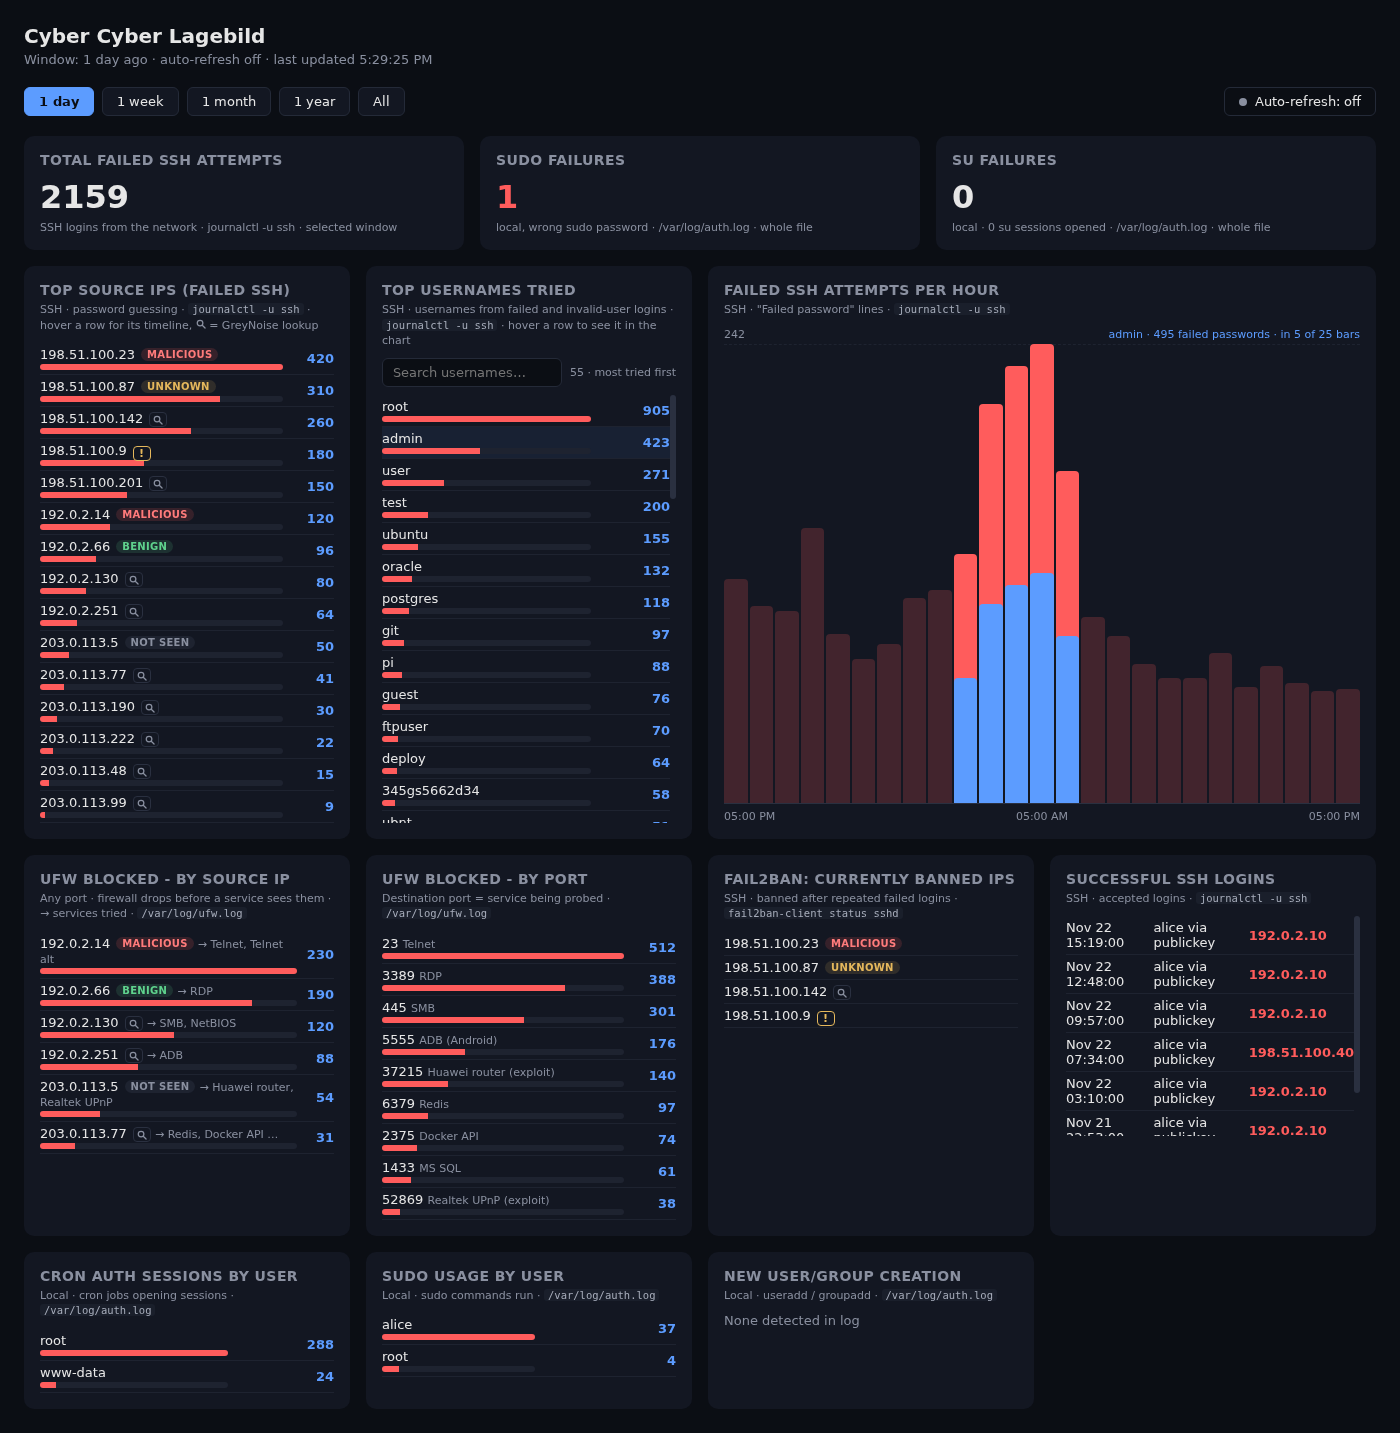
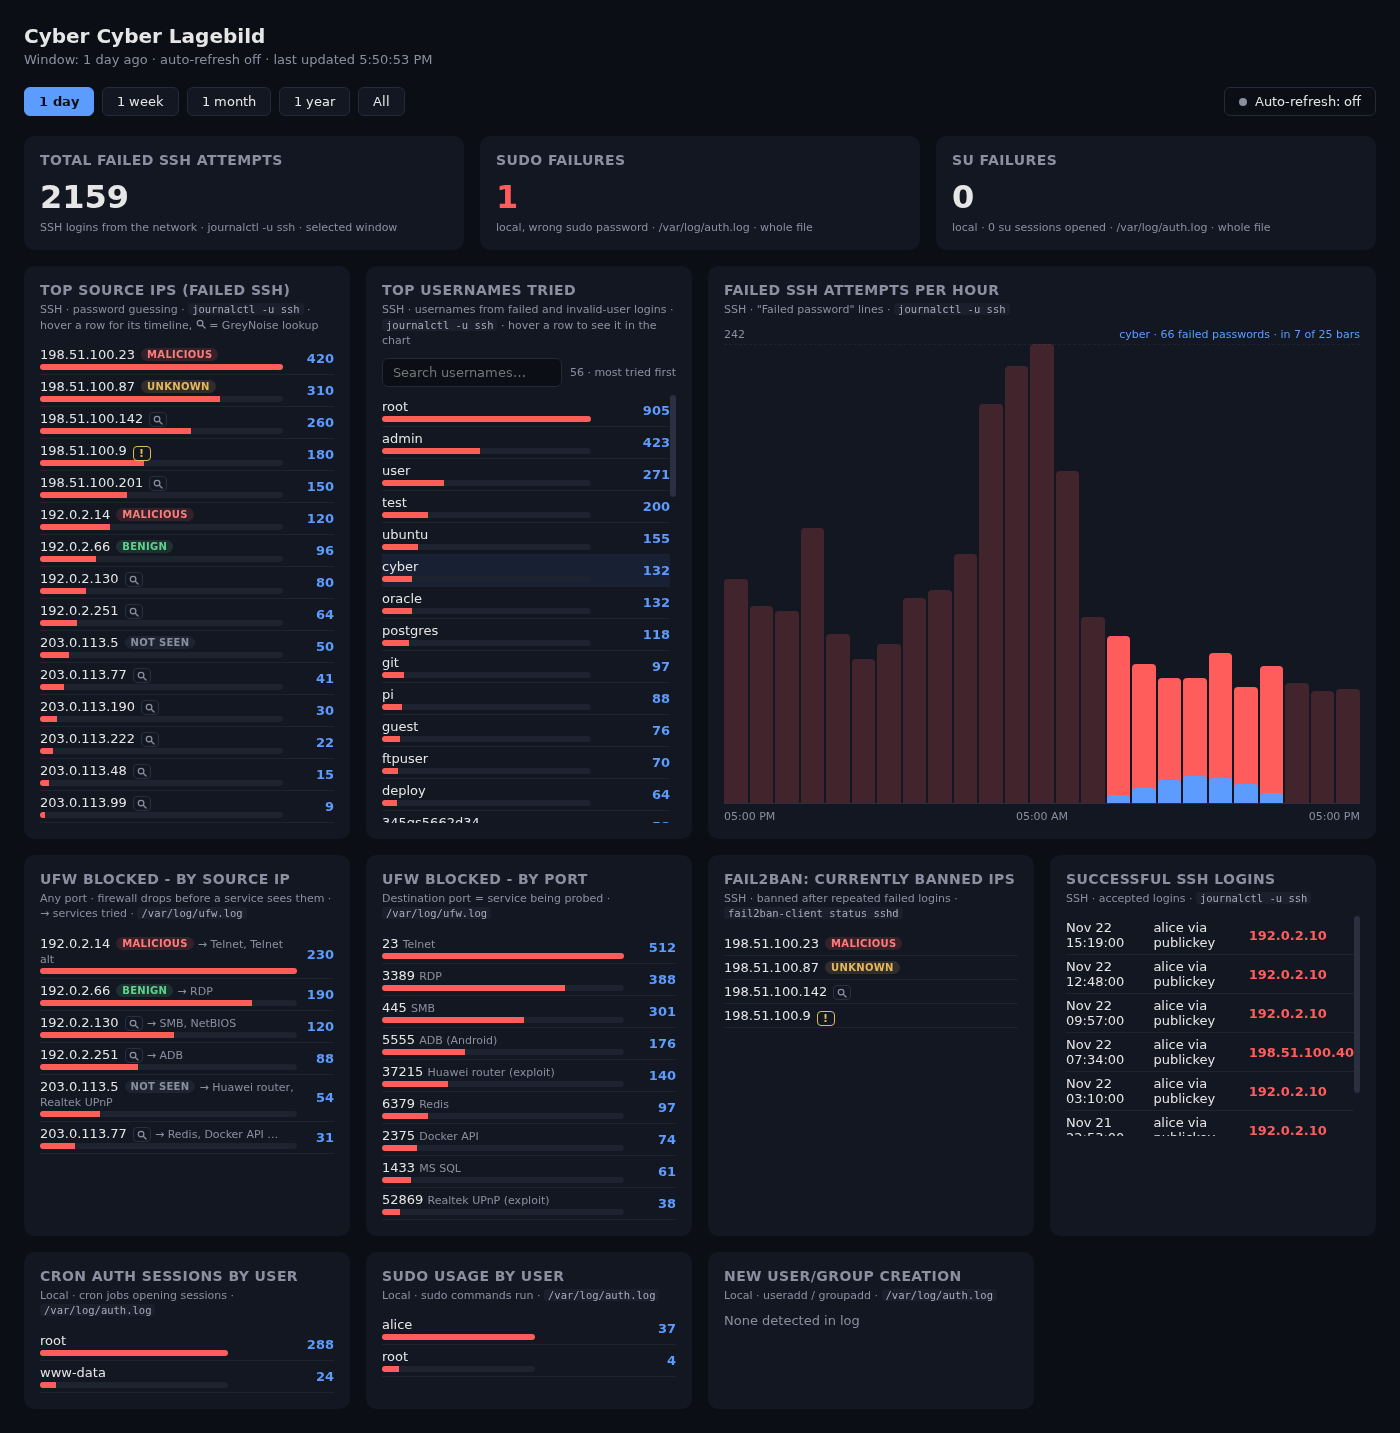
adapt second level user name sort order

diff --git a/app.py b/app.py
@@ -95,7 +95,9 @@ def top(counter, n=15):
 
 
 def top_all(counter):
-    return [{"key": k, "count": c} for k, c in counter.most_common()]
+    """Every entry, most first; equal counts in alphabetical order (case-insensitive)."""
+    rows = sorted(counter.items(), key=lambda kc: (-kc[1], kc[0].casefold(), kc[0]))
+    return [{"key": k, "count": c} for k, c in rows]
 
 
 def hour_series(counter):
@@ -630,7 +632,7 @@ function setupGreyNoise() {
 }
 
 // ---- Username panel with search ----
-let userRows = [];   // latest by_user data, sorted by count (from the server)
+let userRows = [];   // latest by_user data, sorted by count, then A–Z (from the server)
 let userQuery = '';  // survives auto-refresh re-renders
 
 function highlightMatch(text, q) {
